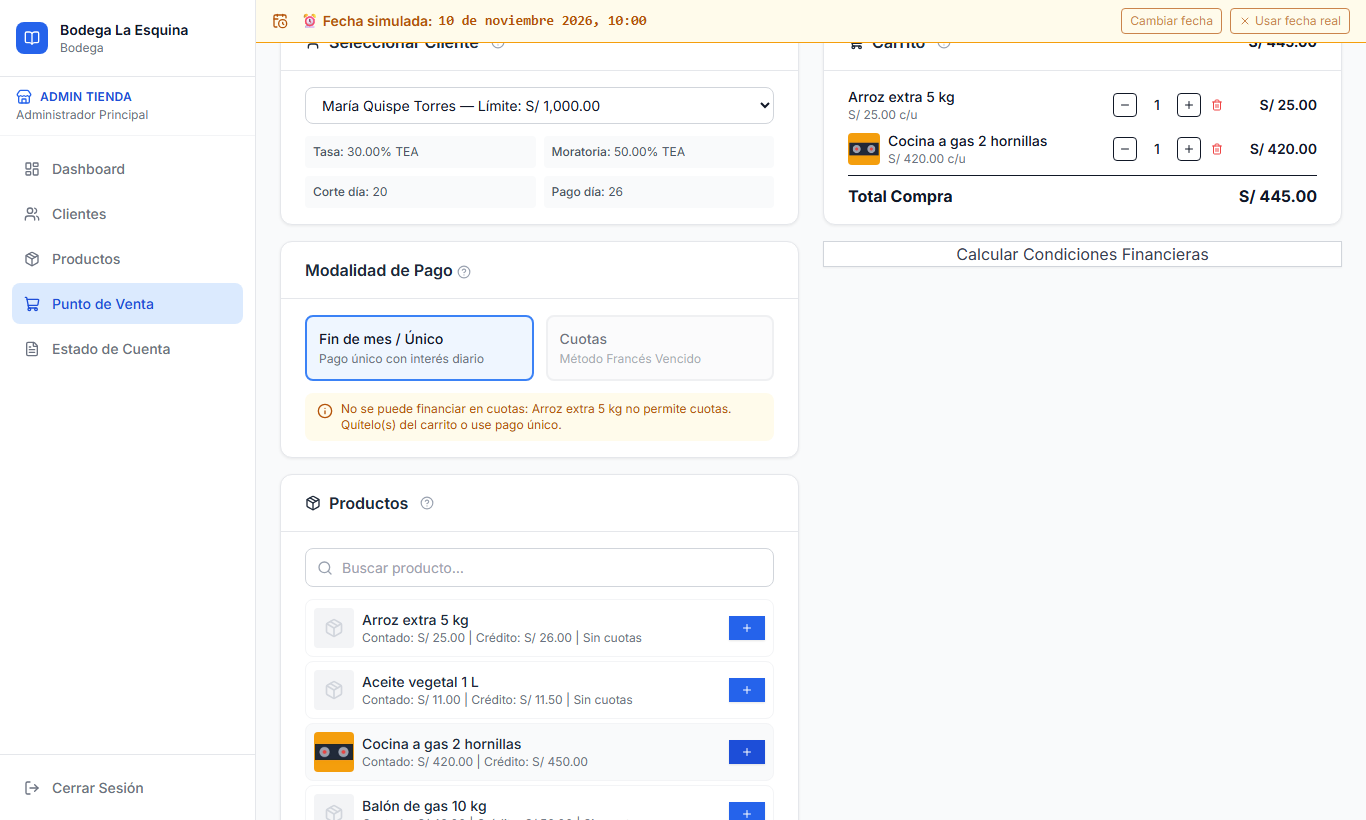
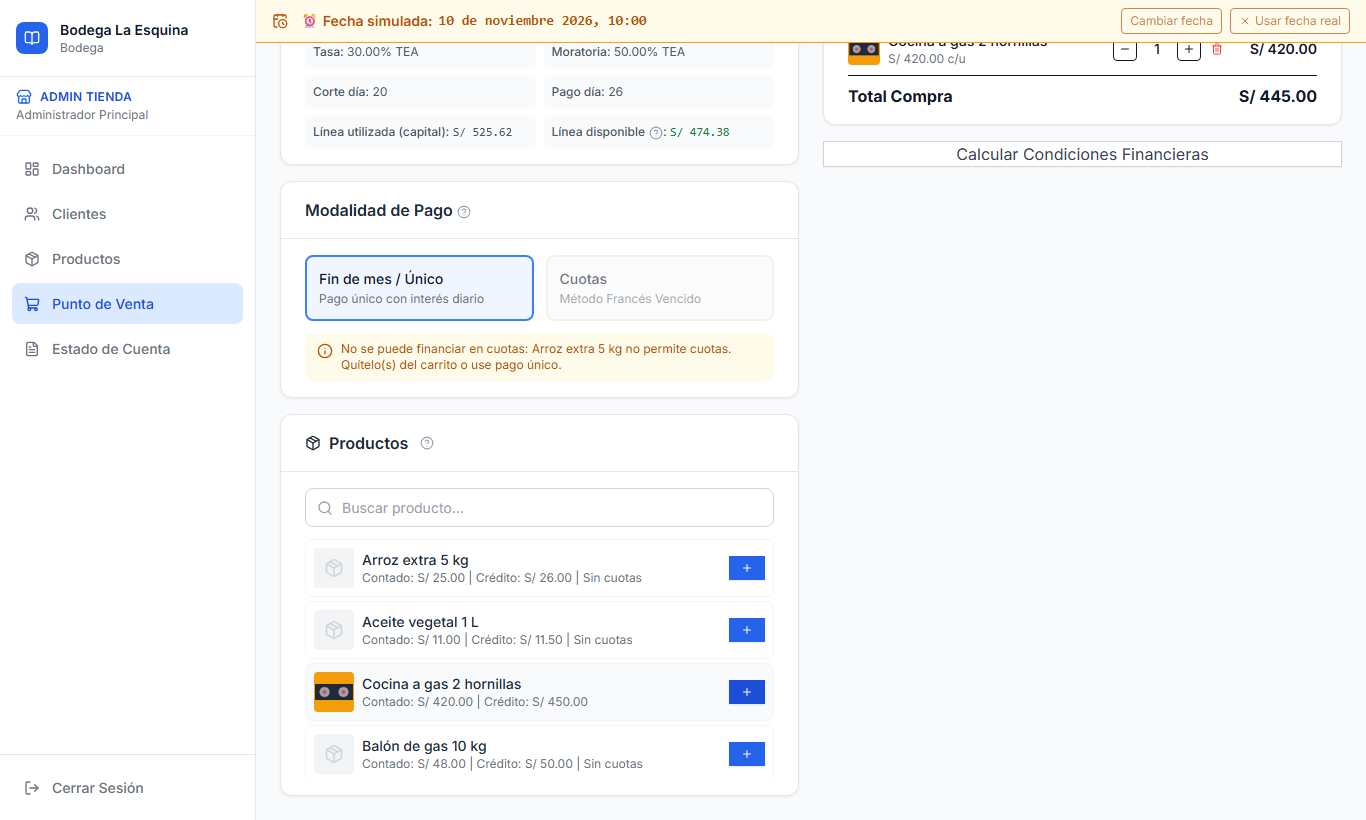
test(e2e): el disponible coincide en estado de cuenta, dashboard del cliente y punto de venta
- scripts/e2e-capturas.mjs: comprobaciones F9 (60 de 60 OK)
- docs/capturas regeneradas en una sola corrida; resultados.md actualizado
- README: formula F9 y nota sobre vitest en Windows

diff --git a/docs/capturas/resultados.md b/docs/capturas/resultados.md
@@ -1,6 +1,6 @@
 # Resultados de la prueba manual automatizada (Playwright + Chromium, 1366×820)
 
-Fecha de ejecución: 2026-11-17 · Rama `fix/enunciado-final` · `npm run dev` en http://localhost:5173
+Fecha de ejecución: 2026-11-27 · Rama `fix/linea-disponible` · `npm run dev` en http://localhost:5173
 
 Las pruebas se ejecutan con `scripts/e2e-capturas.mjs` (ver README del script). Cada fila compara el valor esperado del enunciado con el valor leído en pantalla (o en `localStorage` cuando se indica).
 
@@ -51,20 +51,26 @@ Las pruebas se ejecutan con `scripts/e2e-capturas.mjs` (ver README del script). 
 | 43 | h) Crédito pasa a Liquidado | única cuota pagada | liquidado | liquidado | ✅ Sí |
 | 44 | h) Badge "Liquidado" en pantalla | tarjeta del crédito | Liquidado | Liquidado | ✅ Sí |
 | 45 | h) Total a pagar global no suma la mora ya pagada | cocina 473.83 deuda + 8.89 mora pendiente (el crédito liquidado aporta 0) | S/ 482.72 | S/ 482.72 | ✅ Sí |
-| 46 | i) Total a pagar del cliente coincide con el del admin | estado de cuenta de maria | S/ 482.72 | S/ 482.72 | ✅ Sí |
-| 47 | i) Cliente ve moneda S/ | estado de cuenta de maria | montos con "S/" | montos con "S/" | ✅ Sí |
-| 48 | i) Cliente ve TCEA | estado de cuenta | TCEA presente | TCEA presente | ✅ Sí |
-| 49 | i) Cliente ve "Intereses por mora" y compensatorio | estado de cuenta | ambos presentes | ambos presentes | ✅ Sí |
-| 50 | i) Cliente ve el crédito liquidado | estado de cuenta | Liquidado | Liquidado | ✅ Sí |
-| 51 | b) Tooltip abre con toque (tap) | touchscreen.tap en ? | visible | visible | ✅ Sí |
-| 52 | b) Tooltip se cierra al tocar fuera | tap fuera | oculto | oculto | ✅ Sí |
-| 53 | Migración: admin recorre dashboard/clientes/productos/POS/estado de cuenta | JSON formato anterior (sin moneda, capitalización, tcea, fechaPrimerPago) | sin errores y datos visibles | sin errores y datos visibles | ✅ Sí |
-| 54 | Migración: cliente antiguo asume moneda PEN | fila de Clientes | S/ 500.00 | Pedro Antiguo 11112222 - TNA 24.00% S/ 500.00 20 / 26 Activo EditarEliminar | ✅ Sí |
-| 55 | Migración: cliente antiguo ve su cuenta | login pedro/pedro123 | dashboard y estado de cuenta cargan | cargan | ✅ Sí |
+| 46 | F9) Estado de cuenta: línea utilizada = capital pendiente | María: C′ de la cocina sin pagos; el crédito liquidado aporta 0 | S/ 453.62 | S/ 453.62 | ✅ Sí |
+| 47 | F9) Estado de cuenta: línea disponible | 1,000 − 453.62 (intereses y mora no consumen línea) | S/ 546.38 | S/ 546.38 | ✅ Sí |
+| 48 | F9) Punto de venta: línea disponible | María seleccionada | S/ 546.38 | S/ 546.38 | ✅ Sí |
+| 49 | F9) Dashboard del cliente: línea disponible | login maria | S/ 546.38 | S/ 546.38 | ✅ Sí |
+| 50 | F9) Mismo disponible en Estado de cuenta, Dashboard del cliente y Punto de venta | EC S/ 546.38 / CL S/ 546.38 / PV S/ 546.38 | iguales | iguales | ✅ Sí |
+| 51 | i) Total a pagar del cliente coincide con el del admin | estado de cuenta de maria | S/ 482.72 | S/ 482.72 | ✅ Sí |
+| 52 | i) Cliente ve moneda S/ | estado de cuenta de maria | montos con "S/" | montos con "S/" | ✅ Sí |
+| 53 | i) Cliente ve TCEA | estado de cuenta | TCEA presente | TCEA presente | ✅ Sí |
+| 54 | i) Cliente ve "Intereses por mora" y compensatorio | estado de cuenta | ambos presentes | ambos presentes | ✅ Sí |
+| 55 | i) Cliente ve el crédito liquidado | estado de cuenta | Liquidado | Liquidado | ✅ Sí |
+| 56 | b) Tooltip abre con toque (tap) | touchscreen.tap en ? | visible | visible | ✅ Sí |
+| 57 | b) Tooltip se cierra al tocar fuera | tap fuera | oculto | oculto | ✅ Sí |
+| 58 | Migración: admin recorre dashboard/clientes/productos/POS/estado de cuenta | JSON formato anterior (sin moneda, capitalización, tcea, fechaPrimerPago) | sin errores y datos visibles | sin errores y datos visibles | ✅ Sí |
+| 59 | Migración: cliente antiguo asume moneda PEN | fila de Clientes | S/ 500.00 | Pedro Antiguo 11112222 - TNA 24.00% S/ 500.00 20 / 26 Activo EditarEliminar | ✅ Sí |
+| 60 | Migración: cliente antiguo ve su cuenta | login pedro/pedro123 | dashboard y estado de cuenta cargan | cargan | ✅ Sí |
 
-**55 de 55 comprobaciones coinciden.** Errores `console.error` / `pageerror` durante todos los flujos: **0**.
+**60 de 60 comprobaciones coinciden.** Errores `console.error` / `pageerror` durante todos los flujos: **0**.
 
 ## Notas
 - La captura `12_ec_pago_confirmacion.png` usa una réplica en DOM del cuadro `window.confirm` (los diálogos nativos no se pueden capturar). El texto es el mensaje real que genera la app; la comprobación del diálogo nativo real (mensaje y cancelación) está en la fila "El pago pide confirmación".
 - En el paso (h) la cocina de María (cuotas 26/10 y 26/11) también está vencida al 05/12/2026: mora 7.28 + 1.61 = 8.89. Solo se paga el crédito de fin de mes; el total a pagar restante es S/ 473.83 + S/ 8.89 = S/ 482.72.
+- Línea disponible (F9): las tres pantallas usan `calcularLineaDisponible` (línea − capital pendiente de amortizar de los créditos no liquidados ni castigados). Al 05/12/2026 María tiene la cocina sin pagos (capital pendiente C′ = 453.62) y el pago único ya liquidado, así que el disponible es S/ 546.38 en el Estado de cuenta, el Dashboard del cliente y el Punto de venta. Antes de este cambio el Estado de cuenta y el Dashboard restaban las cuotas con interés (473.83) y mostraban S/ 526.17. El "Total a pagar" (S/ 482.72, cuotas + mora) no cambia.
 - La migración se probó cargando un JSON con el formato anterior (cliente sin `moneda`/`capitalizacion`, crédito con `fechaPrimerPago` y sin `tcea`); se migra en memoria al leer y se persiste en el siguiente guardado.

diff --git a/README.md b/README.md
@@ -50,6 +50,7 @@ Ej.: TNA 24 % capitalizable mensualmente → TEM = 2.0000000 %, TEA = 26.8241795
 | Cuota (método francés) | `R = C' × TEM(1+TEM)^n / ((1+TEM)^n − 1)`; la última cuota absorbe el redondeo |
 | Interés moratorio | `Mora = Cuota × [(1 + TED_mora)^días_atraso − 1]` (días exactos) |
 | TCEA | TIR diaria de los flujos (−monto en la compra, cuotas a `días_gracia + 30·k`), `TCEA = (1 + TIRd)^360 − 1` |
+| Línea disponible (F9) | `Disponible = Línea − Σ capital pendiente de amortizar` de los créditos no liquidados ni castigados (`calcularLineaDisponible`). Intereses y mora no consumen línea; es el mismo número en el punto de venta, el estado de cuenta y el dashboard del cliente |
 
 ### Fechas
 
@@ -127,6 +128,8 @@ npm run build
 # Pruebas
 npx vitest run
 ```
+
+> En Windows, ejecuta las pruebas desde una ruta con la unidad en mayúscula (`C:\...`). Si la terminal abre la carpeta como `c:\...`, vitest carga dos copias de sí mismo y falla con "Vitest failed to find the current suite".
 
 ---
 
